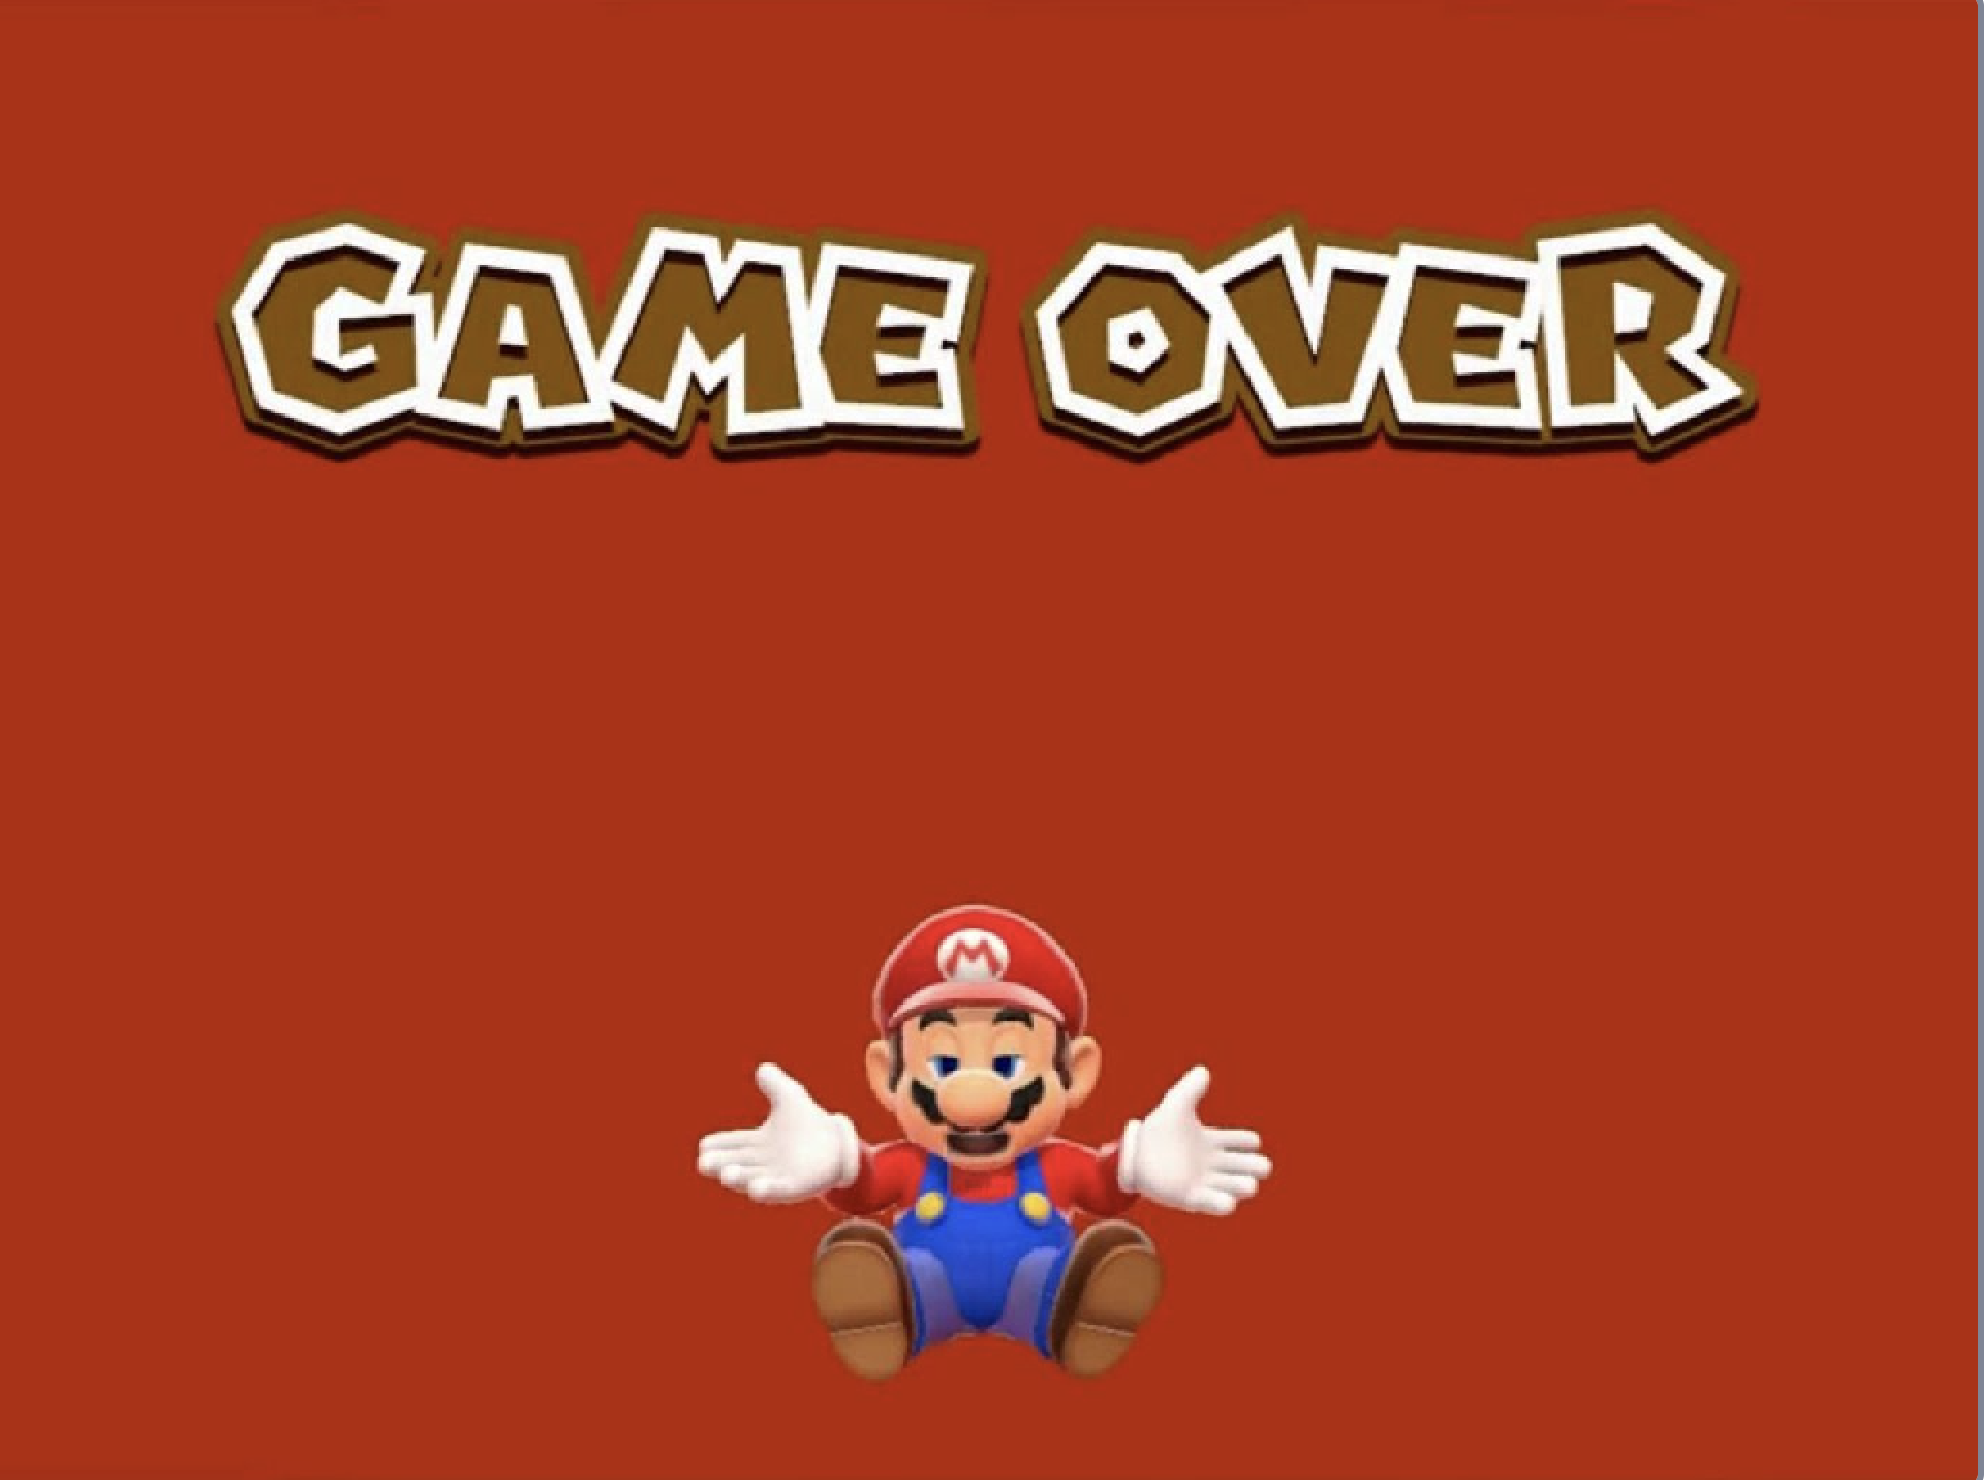
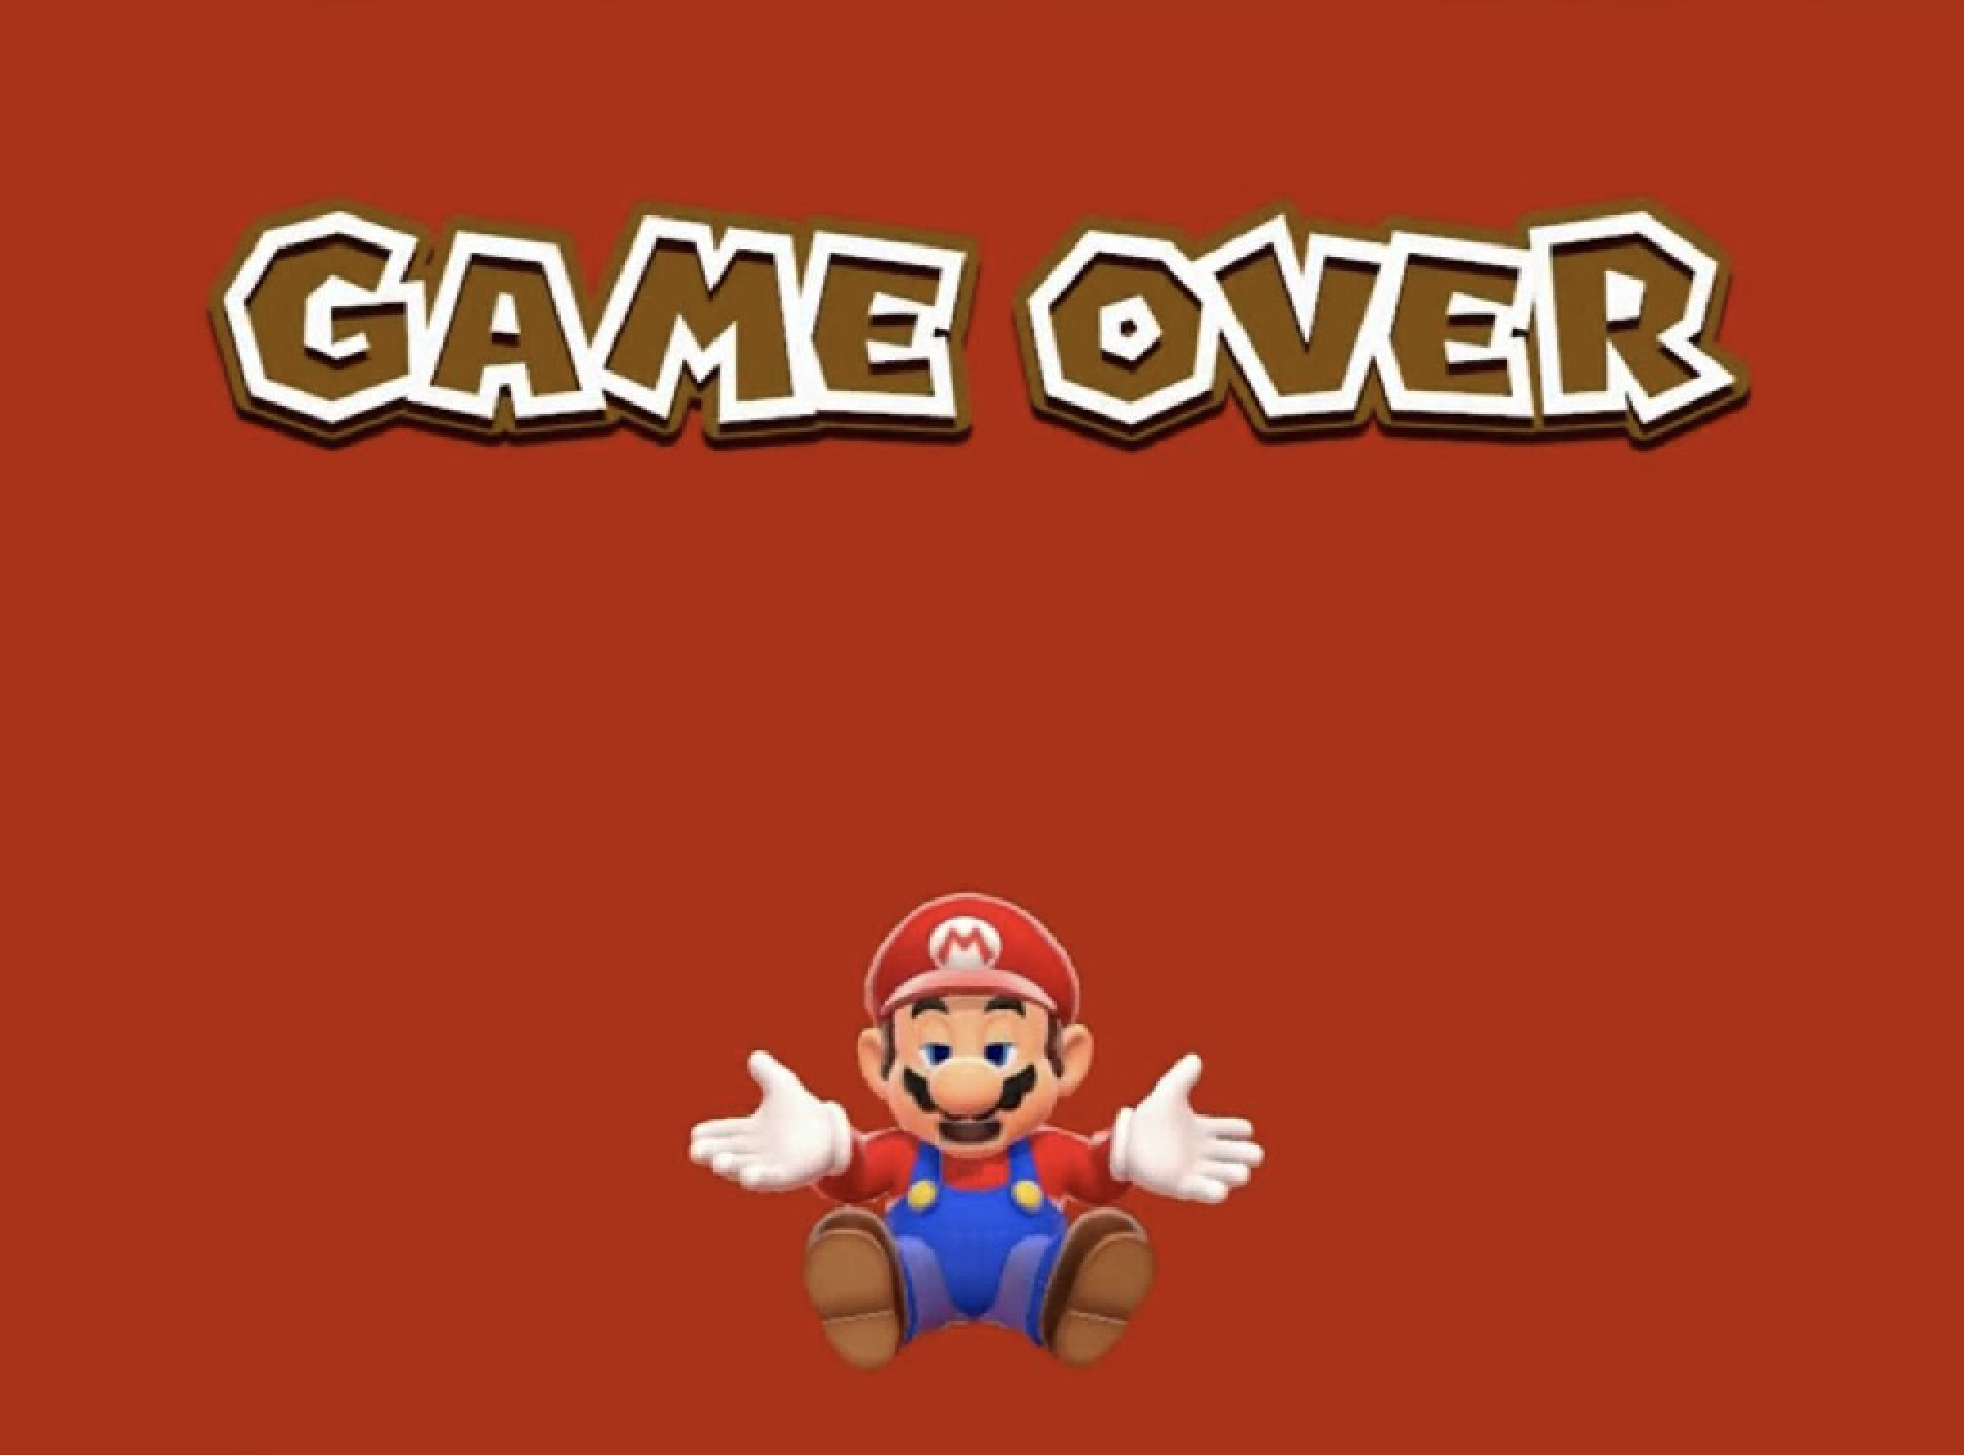
embedded maze game

Changed region(s): [[0.0932, 0.1237, 0.9007, 0.3093], [0.3416, 0.5876, 0.6522, 0.9588], [0.9939, 0.0, 1.0, 1.0]]

diff --git a/right-sidebar.html b/right-sidebar.html
@@ -6,7 +6,7 @@
 -->
 <html>
 	<head>
-		<title>Video Analysis</title>
+		<title>Scratch Game</title>
 		<meta charset="utf-8" />
 		<meta name="viewport" content="width=device-width, initial-scale=1, user-scalable=no" />
 		<link rel="stylesheet" href="assets/css/main.css" />
@@ -48,15 +48,15 @@
 				<div id="main" class="wrapper style1">
 					<div class="container">
 						<header class="major">
-							<h2>Video Analysis</h2>
-							<p>Inspecting a professional long jumper's duration in the air, along with certain body angles that aid in forward propulsion.</p>
+							<h2>Super Mario Maze Game</h2>
+							<p>Use of Scratch programming software to create a fully-fledged maze game.</p>
 						</header>
 						<div class="row gtr-150">
 							<div class="col-8 col-12-medium">
 
 								<!-- Content -->
 									<section id="content">
-										<a href="#" class="image fit"><img src="images/pic06.jpg" alt="" /></a>
+										<a href="#" class="image fit"> <iframe src="https://scratch.mit.edu/projects/997334104/embed" allowtransparency="true" width="650" height="402" frameborder="0" scrolling="no" allowfullscreen></iframe> </a>
 										<h3>Dolore Amet Consequat</h3>
 										<p>Aliquam massa urna, imperdiet sit amet mi non, bibendum euismod est. Curabitur mi justo, tincidunt vel eros ullamcorper, porta cursus justo. Cras vel neque eros. Vestibulum diam quam, mollis at magna consectetur non, malesuada quis augue. Morbi tincidunt pretium interdum est. Curabitur mi justo, tincidunt vel eros ullamcorper, porta cursus justo. Cras vel neque eros. Vestibulum diam.</p>
 										<p>Vestibulum diam quam, mollis at consectetur non, malesuada quis augue. Morbi tincidunt pretium interdum. Morbi mattis elementum orci, nec dictum porta cursus justo. Quisque ultricies lorem in ligula condimentum, et egestas turpis sagittis. Cras ac nunc urna. Nullam eget lobortis purus. Phasellus vitae tortor non est placerat tristique.</p>
@@ -78,6 +78,8 @@
 								<!-- Sidebar -->
 									<section id="sidebar">
 										<section>
+											<a href="#" class="image fit"><img src="images/MazeTheEnd.png" alt="" /></a>
+											<a href="#" class="image fit"><img src="images/MazeGameOver.png" alt="" /></a>
 											<h3>Magna Feugiat</h3>
 											<p>Sed tristique purus vitae volutpat commodo suscipit amet sed nibh. Proin a ullamcorper sed blandit. Sed tristique purus vitae volutpat commodo suscipit ullamcorper commodo suscipit amet sed nibh. Proin a ullamcorper sed blandit..</p>
 											<footer>
@@ -88,7 +90,7 @@
 										</section>
 										<hr />
 										<section>
-											<a href="#" class="image fit"><img src="images/pic07.jpg" alt="" /></a>
+											
 											<h3>Amet Lorem Tempus</h3>
 											<p>Sed tristique purus vitae volutpat commodo suscipit amet sed nibh. Proin a ullamcorper sed blandit. Sed tristique purus vitae volutpat commodo suscipit ullamcorper sed blandit lorem ipsum dolore.</p>
 											<footer>
